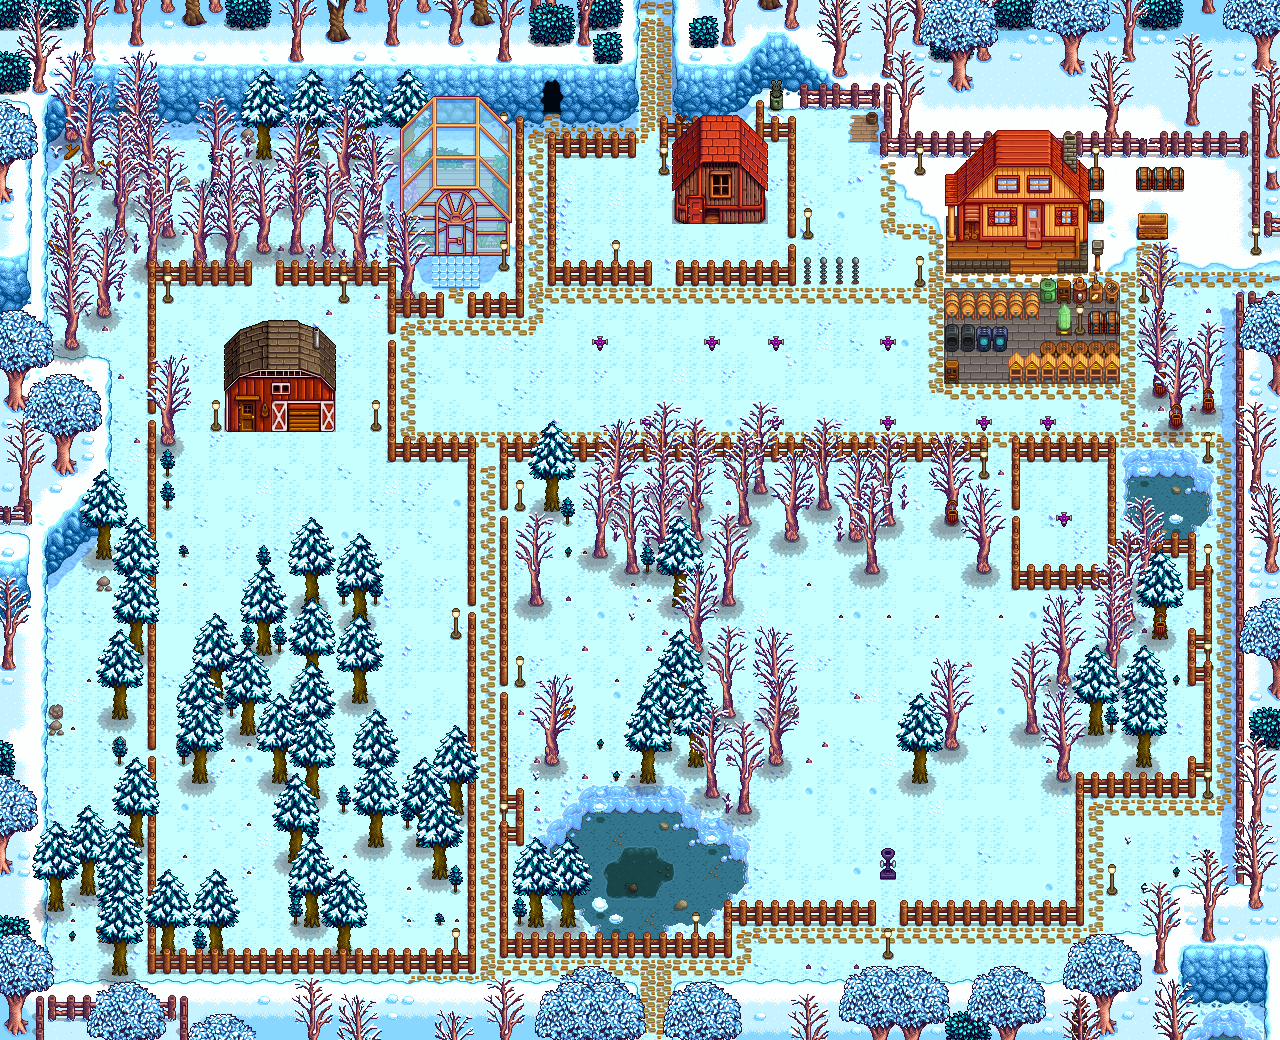
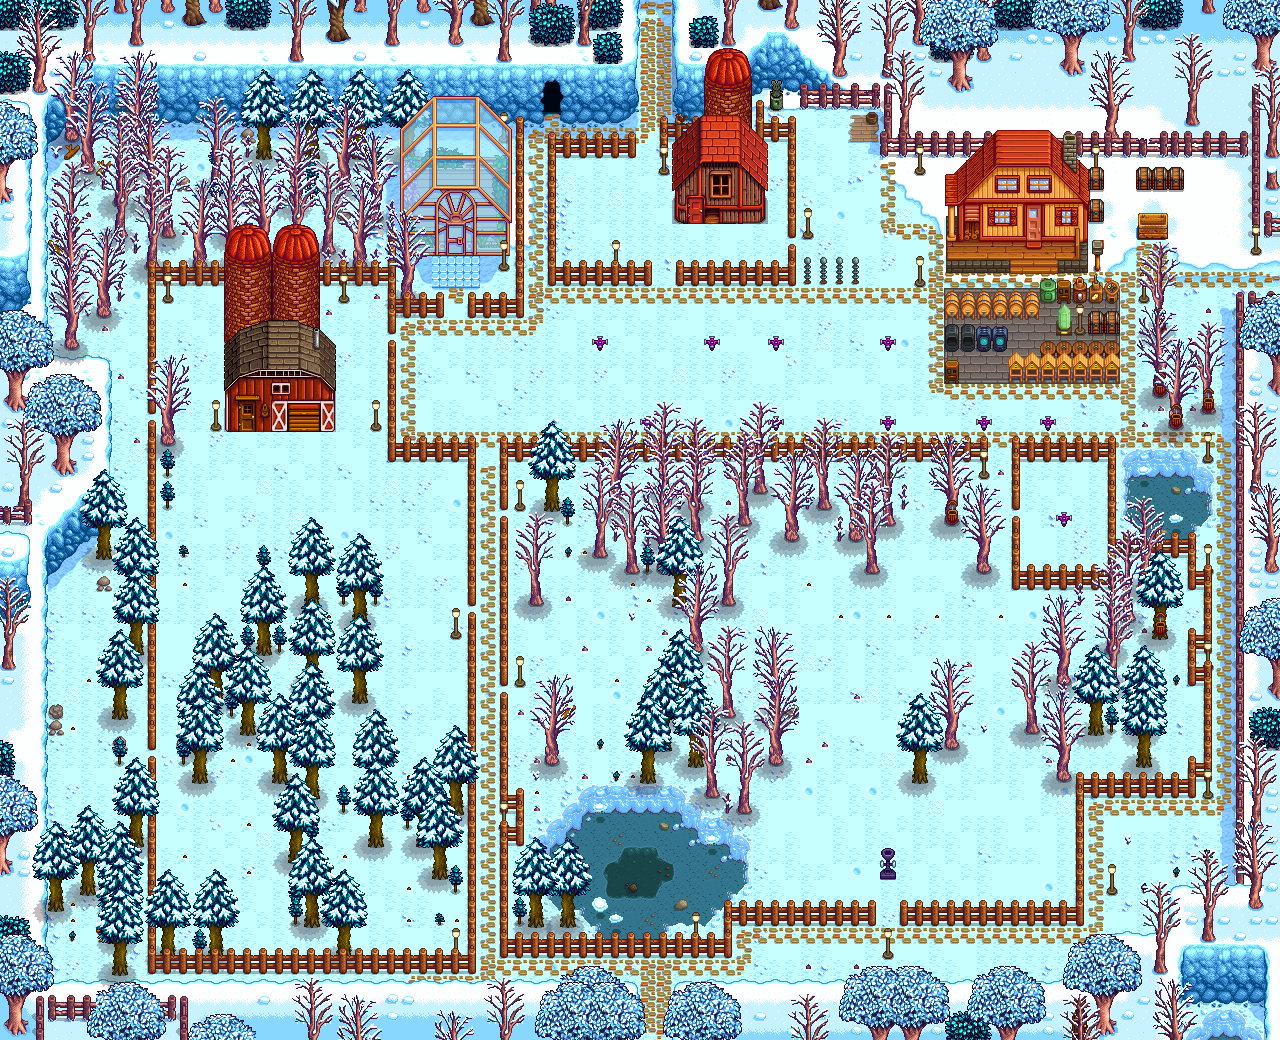
Draw Silos. Helps with issue #7.

Changed region(s): [[0.1562, 0.2154, 0.25, 0.3385], [0.5312, 0.0308, 0.5938, 0.1231], [0.875, 0.4308, 0.9062, 0.4615]]

diff --git a/view/draw_building.go b/view/draw_building.go
@@ -10,7 +10,7 @@ import (
 )
 
 func drawBuilding(pm *parser.Map, building *parser.Building, img draw.Image) {
-	if building.Type == "" {
+	if building.Type == "" && building.BuildingType == "" {
 		return
 	}
 	m := pm.TMX
@@ -20,8 +20,8 @@ func drawBuilding(pm *parser.Map, building *parser.Building, img draw.Image) {
 		log.Printf("Error fetching asset %v: %v", sourcePath, err)
 		return
 	}
-	switch building.Type { // Also works for building.BuildingType = Deluxe Coop
-	case "Coop":
+	switch {
+	case building.Type == "Coop": // Also works for building.BuildingType = Deluxe Coop
 		sr := xnaRect(16, 112, 16, 16)
 		r := sr.Sub(sr.Min).Add(image.Point{
 			(building.TileX + building.AnimalDoor.X) * m.TileWidth,
@@ -44,7 +44,7 @@ func drawBuilding(pm *parser.Map, building *parser.Building, img draw.Image) {
 			building.TileY*m.TileHeight + building.TilesHigh*m.TileHeight,
 		}
 		sb.Draw(img, topLeftAlign(sr, dp), src, sr.Min, houseLayer)
-	case "Barn":
+	case building.Type == "Barn": // Also works for building.BuildingType == Deluxe Barn
 		// Door. TODO: open or closed.
 		sr := xnaRect(0, 112, 32, 16)
 		r := sr.Sub(sr.Min).Add(image.Point{
@@ -66,6 +66,16 @@ func drawBuilding(pm *parser.Map, building *parser.Building, img draw.Image) {
 			building.TileY*m.TileHeight + building.TilesHigh*m.TileHeight,
 		}
 		sb.Draw(img, topLeftAlign(sr, dp), src, sr.Min, houseLayer)
+	case building.BuildingType == "Silo":
+		// Door. TODO: open or closed.
+		sr := xnaRect(0, 0, 48, 128)
+		dp := image.Point{
+			building.TileX * m.TileWidth,
+			(building.TileY - 1) * m.TileHeight,
+		}
+
+		// Top part of the door.
+		sb.Draw(img, midLeftAlign(sr, dp), src, sr.Min, houseLayer)
 
 	default:
 		return

diff --git a/view/draw.go b/view/draw.go
@@ -100,7 +100,11 @@ func WriteImage(pm *parser.Map, sg *parser.SaveGame, w io.Writer) error {
 	buildings := make([][]*parser.Building, m.Height)
 	for i := range farm.Buildings {
 		building := farm.Buildings[i]
-		y := building.TileY + building.AnimalDoor.Y
+		y := building.TileY
+		if building.Type != "" {
+			// For Coop, Barn, etc.
+			y += building.AnimalDoor.Y
+		}
 		if y >= len(buildings) || y < 0 {
 			continue
 		}
